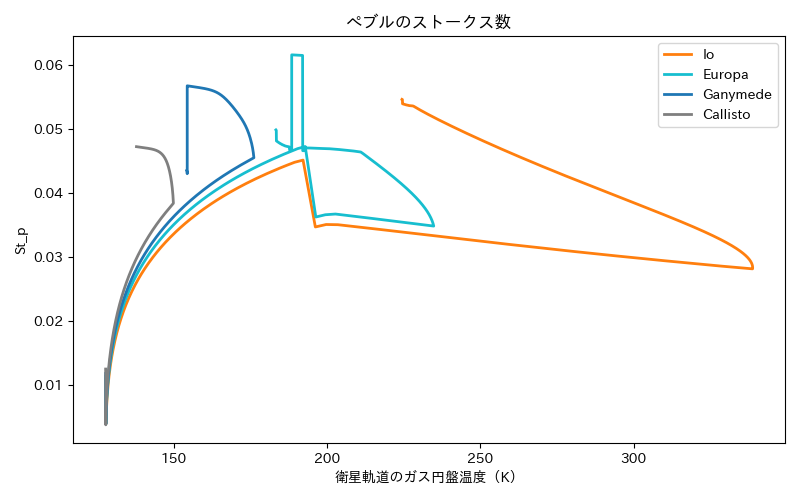
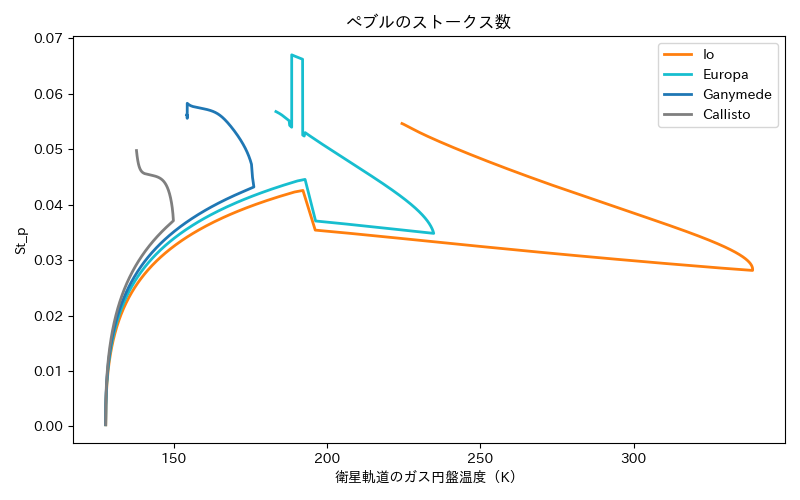
rho_intの値を関数に渡す、空間積分中のぺブルフラックス、ぺブル横取りされた後のフラックス量の修正を行った

diff --git a/gallilean_central_flax.py b/gallilean_central_flax.py
@@ -220,7 +220,7 @@ def calculate_disk_mass(M_cp_kg, M_dot_g_kg_s, alpha, r_gg, L_cp):
 # ---------------------------------------------------------
 # 【変更】ペブルのバトンパス方式に対応したストークス数計算関数
 # ---------------------------------------------------------
-def calculate_st_p_integrated_relay(M_cp_kg, M_dot_g_kg_s, alpha, r_gg, L_cp, local_M_dot_p, target_r, start_r, start_R_d, rho_int=0.1):
+def calculate_st_p_integrated_relay(M_cp_kg, M_dot_g_kg_s, alpha, r_gg, L_cp, local_M_dot_p, target_r, start_r, start_R_d, rho_int):
     if M_dot_g_kg_s <= 1e-15 or local_M_dot_p <= 1e-15:
         return 1e-10, start_R_d
 
@@ -248,7 +248,17 @@ def calculate_st_p_integrated_relay(M_cp_kg, M_dot_g_kg_s, alpha, r_gg, L_cp, lo
             H_g = c_s / Omega_K
             eta, _ = calculate_eta(M_cp_kg, M_dot_g_kg_s, r_curr, alpha, r_gg, L_cp)
             eta_safe = max(abs(eta), 1e-15)
+
+            # ★ 修正: 積分道中 (r_curr) での局所的なスノーラインを判定
+            rho_g_curr = Sigma_g / (np.sqrt(2.0 * np.pi) * H_g)
+            P_gas_curr = rho_g_curr * c_s**2
+            X_H2O = 1.7e-4
+            P_H2O_curr = max(X_H2O * P_gas_curr, 1e-20)
+            T_snow_curr = 6070.0 / (30.86 - np.log(P_H2O_curr))
             
+            # 道中の環境が雪線より内側ならフラックスを半分にして成長を計算
+            local_M_dot_p_curr = current_M_dot_p * 0.5 if T_d >= T_snow_curr else current_M_dot_p
+
             term_num = local_M_dot_p * (Sigma_g**0.25)
             term_den = ( (2.0**(39.0/8.0)) * (np.pi**(13.0/8.0)) * (alpha**0.5) * 
                          (rho_int**1.25) * (eta_safe**0.75) * v_K * (H_g**1.25) * (r_curr**0.75) )
@@ -668,16 +678,17 @@ while t_year <= t_max_year:
         
         # ★ 修正: 前の場所(current_pebble_r)から自分の場所(sat.r_orb)までだけ計算してバトンを受け取る
         st_p, new_pebble_Rd = calculate_st_p_integrated_relay(
-            M_cp_kg, M_dot_g_kg_s, alpha, r_gg, L_cp, local_M_dot_p,
+            M_cp_kg, M_dot_g_kg_s, alpha, r_gg, L_cp, current_M_dot_p,
             target_r=sat.r_orb,
             start_r=current_pebble_r, 
             start_R_d=current_pebble_Rd,
+            rho_int=rho_int
         )
         
         # ★ 追加: 次の内側の衛星のためにバトン（現在地とペブル半径）を更新
         current_pebble_r = sat.r_orb
         current_pebble_Rd = new_pebble_Rd
-        
+
         # （...中略: H_p や P_eff などの計算...）
         H_p = H_g * (1.0 + (st_p / alpha) * (1.0 + 2.0 * st_p) / (1.0 + st_p))**(-0.5)
         h_p = H_p / sat.r_orb
@@ -687,8 +698,13 @@ while t_year <= t_max_year:
         P_eff = calculate_P_eff(mu_s, delta_v, v_K, st_p, eta, h_p)
         
         M_dot_s = local_M_dot_p * P_eff
-        current_M_dot_p = current_M_dot_p - M_dot_s
-        
+
+        # スノーラインの内側なら、フラックスを半分（岩石のみ）にする
+        local_M_dot_p = current_M_dot_p * 0.5 if T_d >= T_snow_local else current_M_dot_p
+
+        # その半分に減った岩石フラックスをベースに、捕獲量 M_dot_s を計算する
+        M_dot_s = local_M_dot_p * P_eff
+
         # 修正: ここでも局所の T_snow_local を使う
         f_ice = 0.5 if T_d < T_snow_local else 0.0
             
